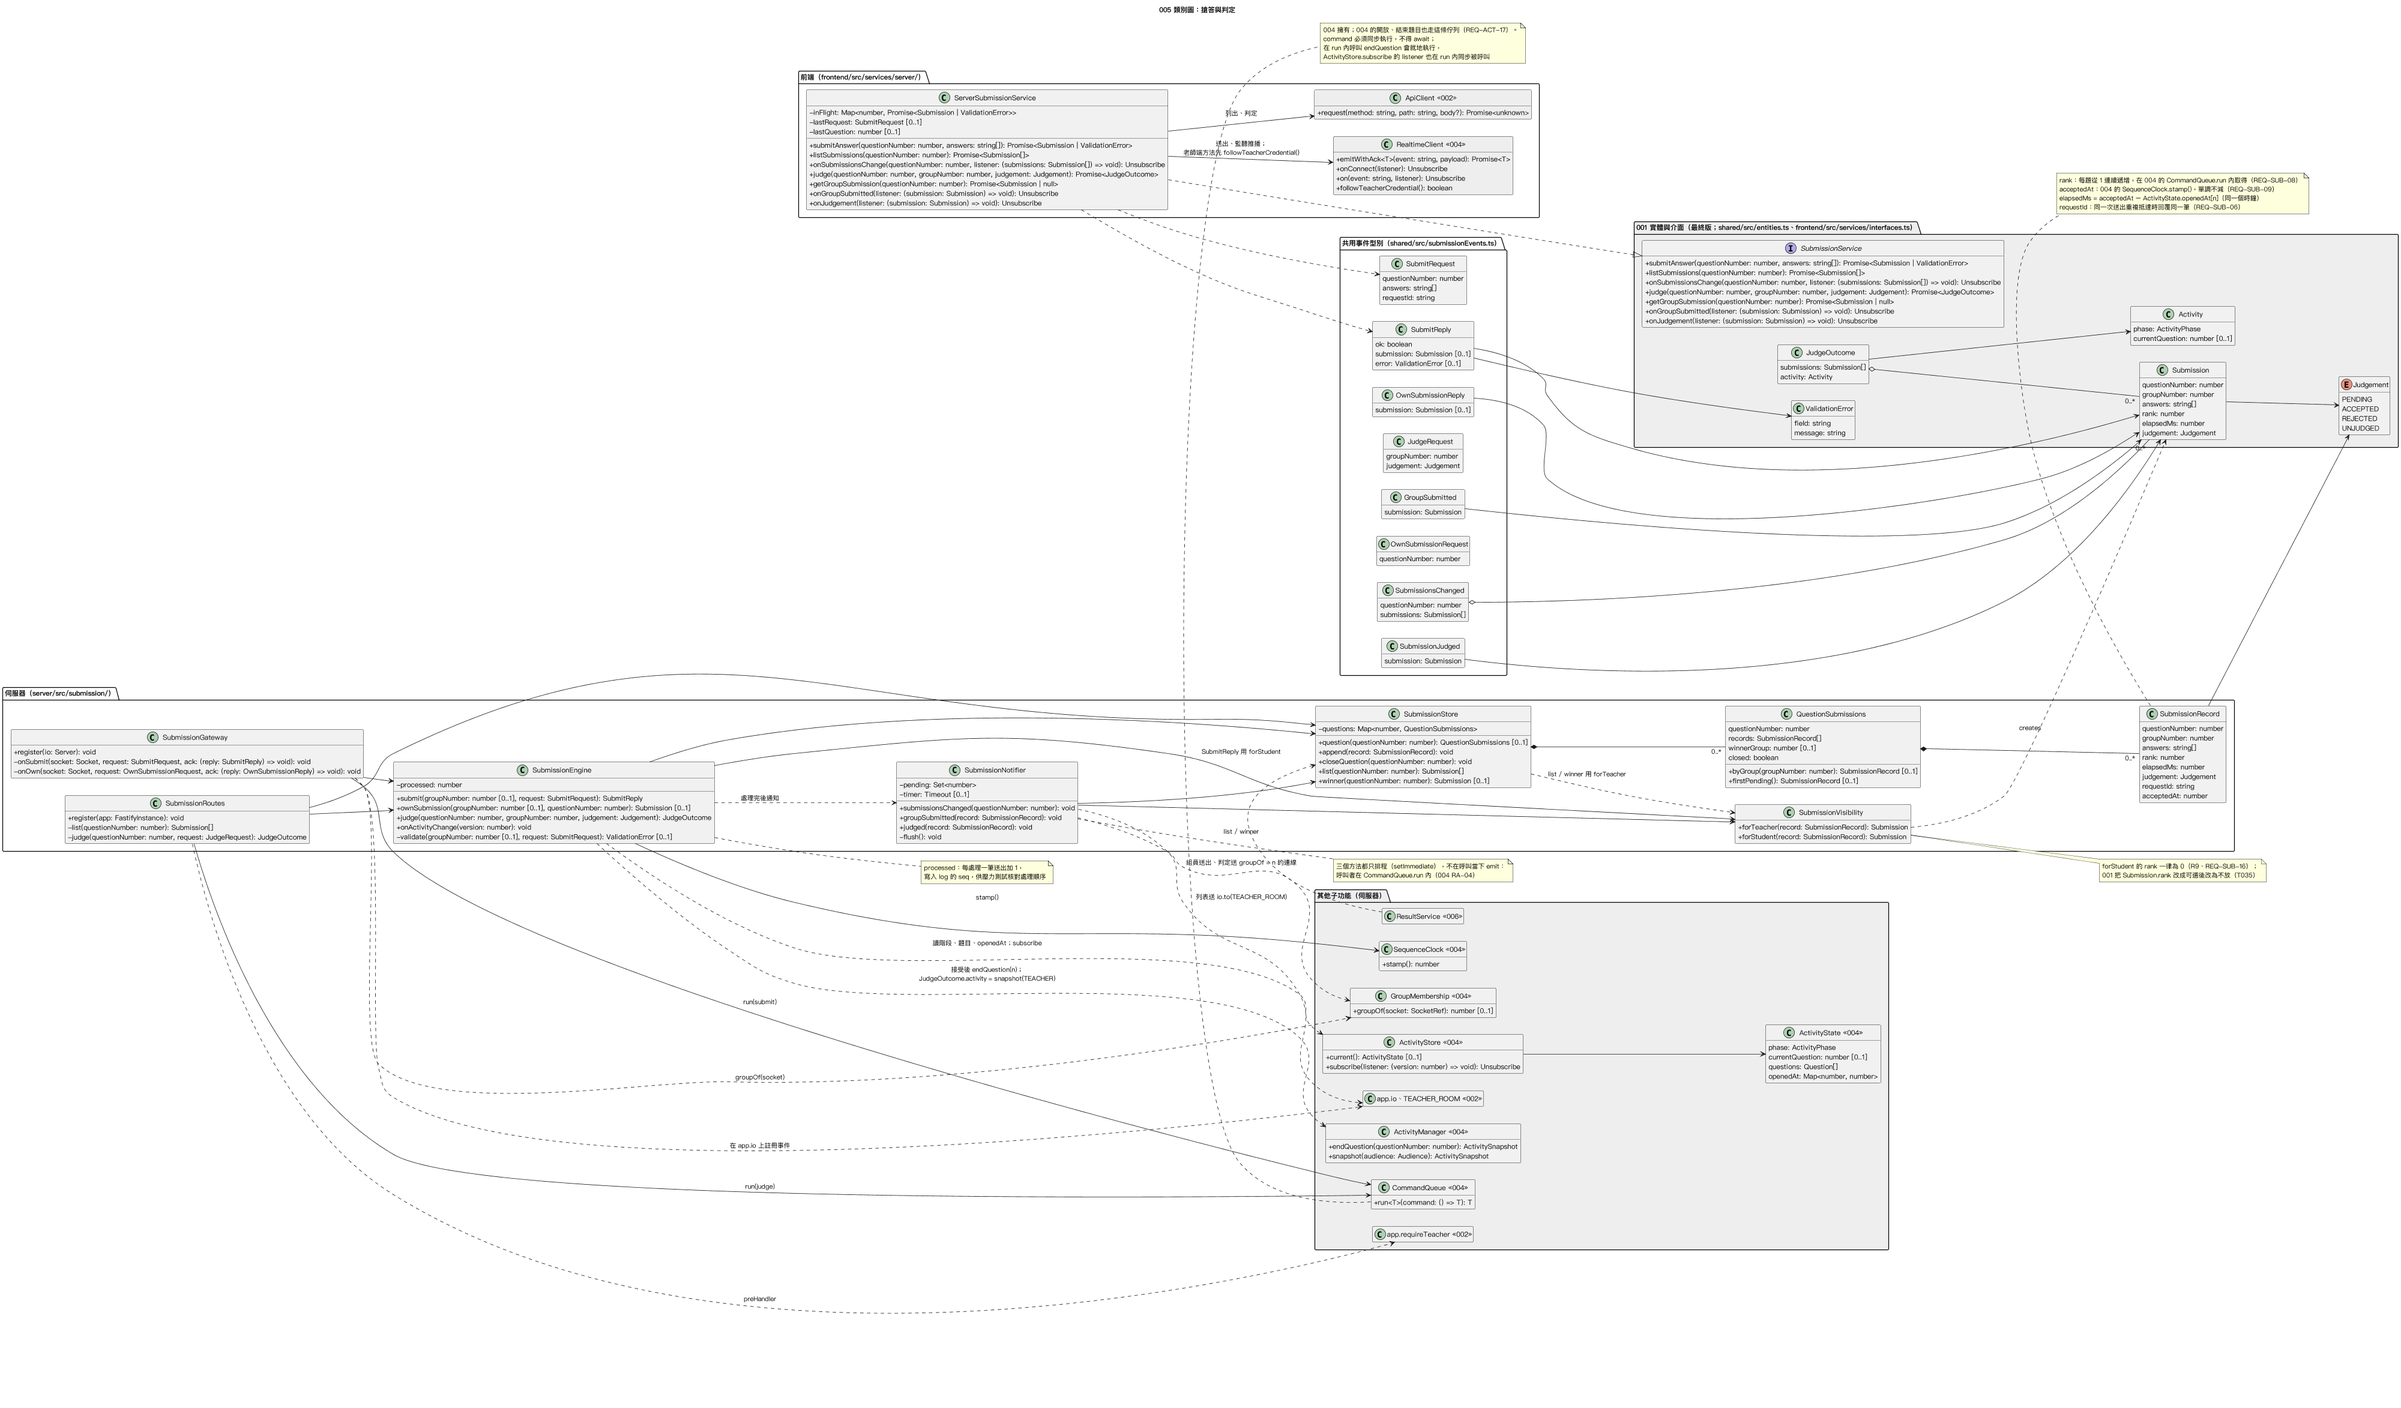
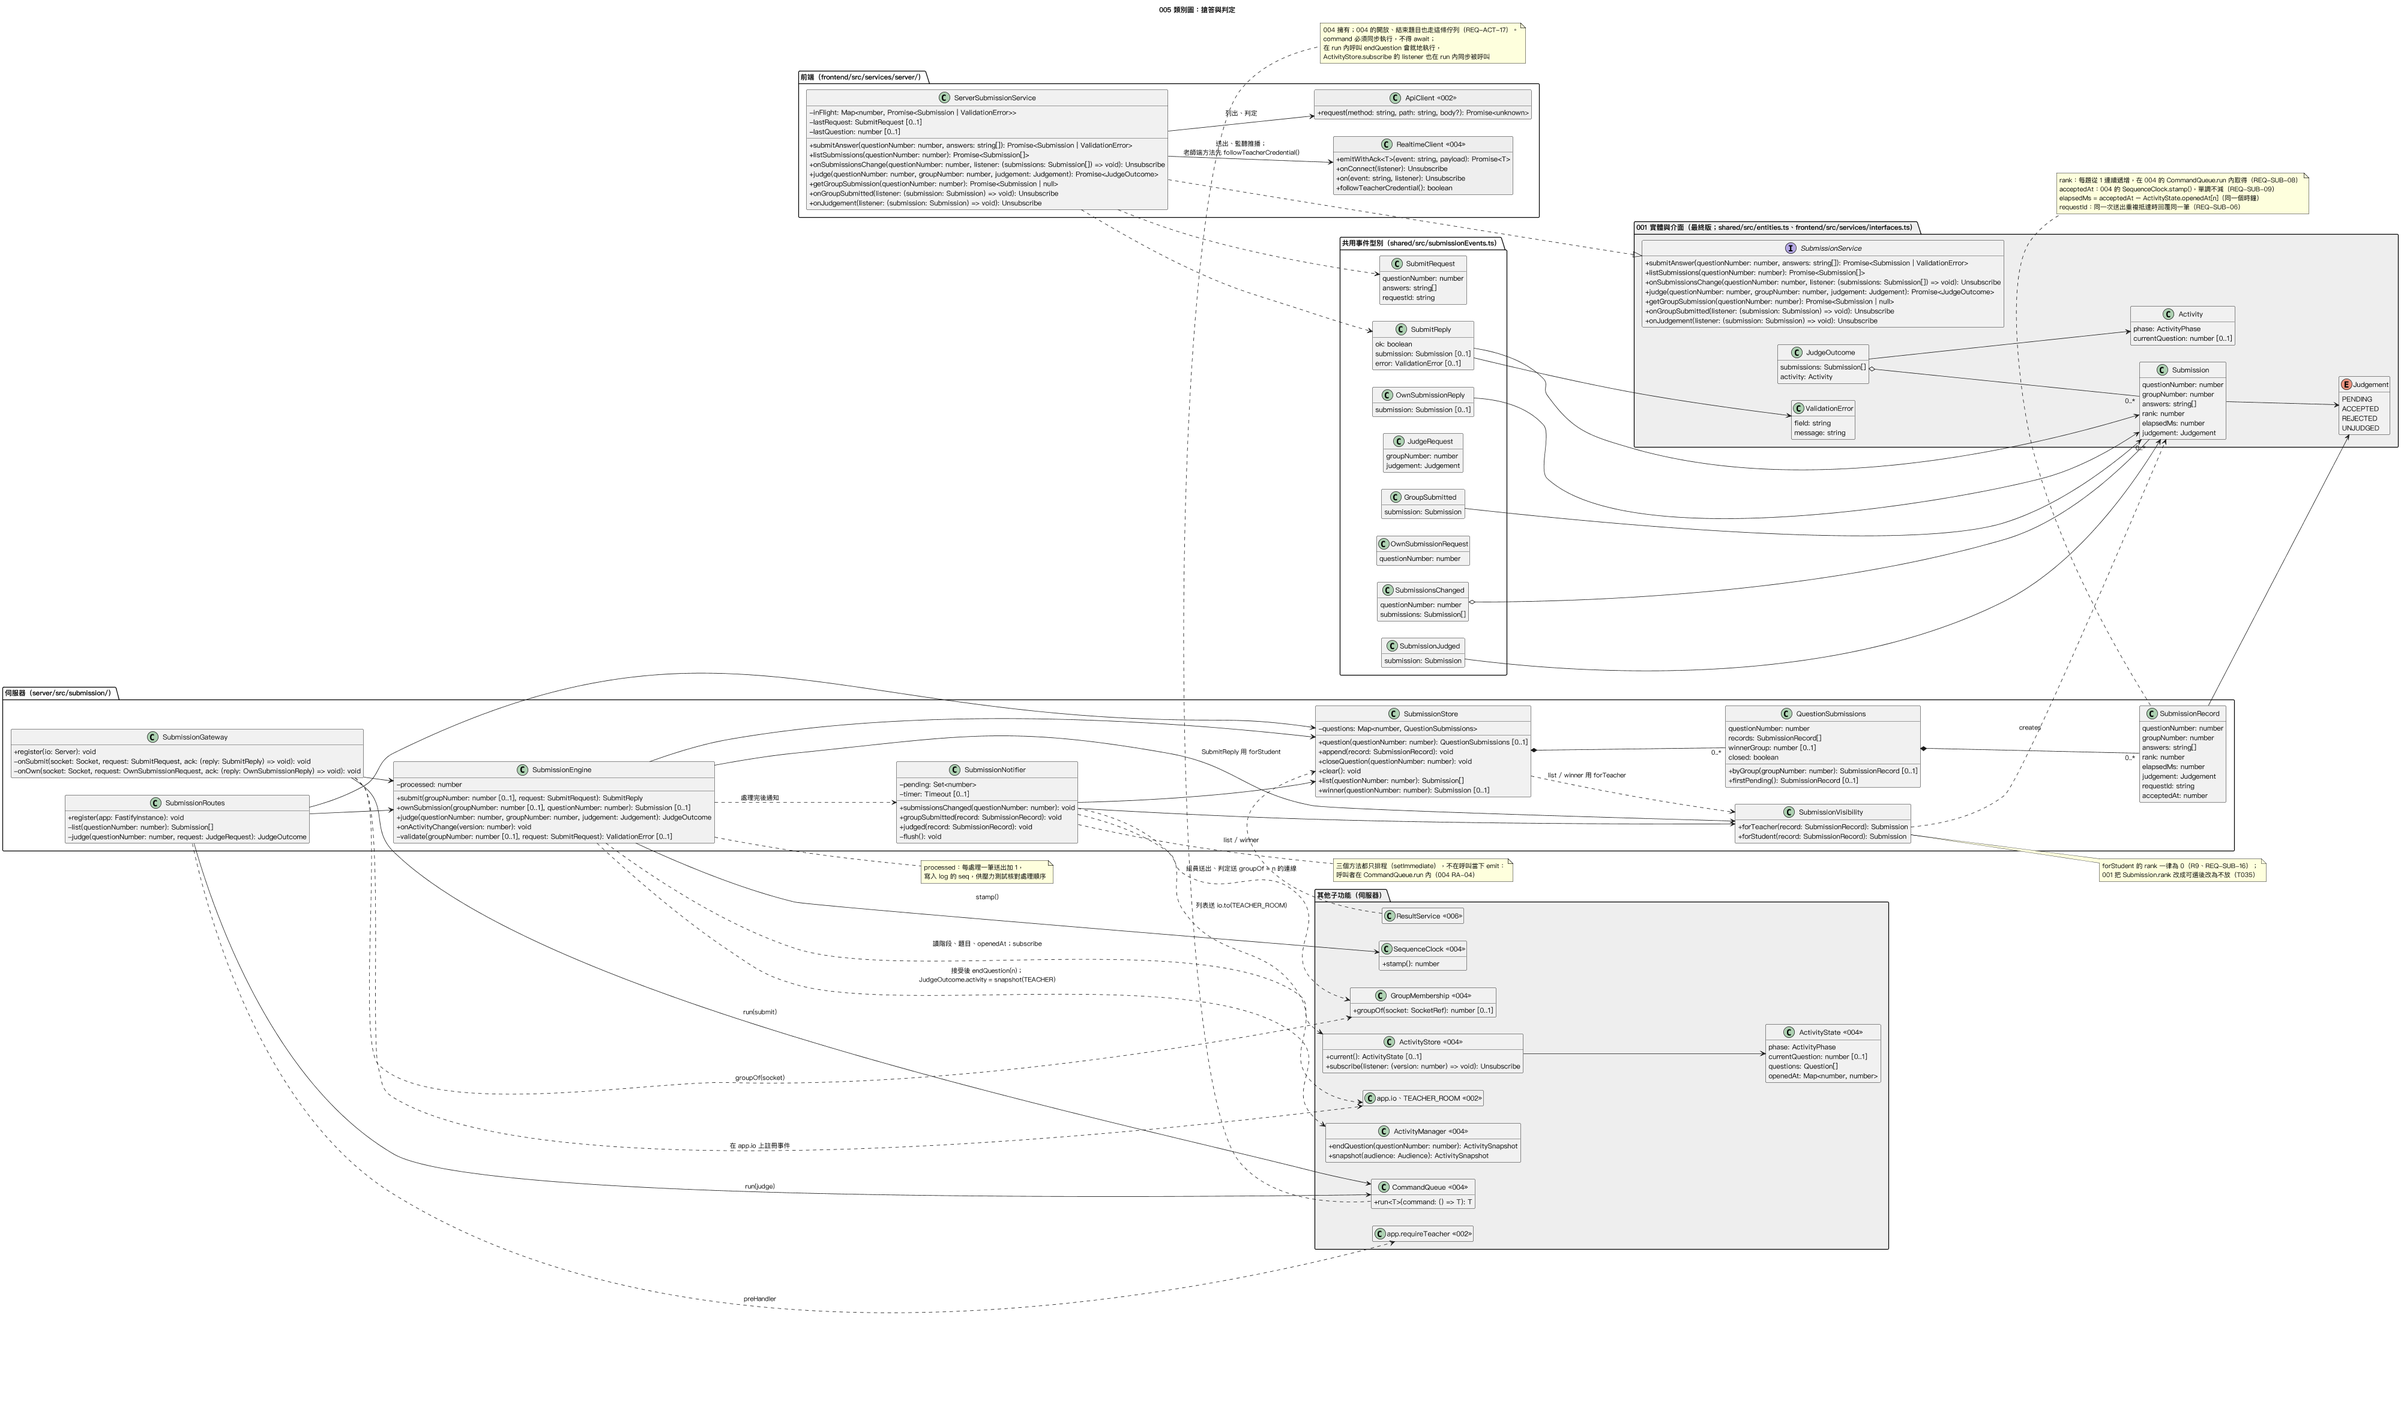
spec(005): clear submissions when the activity disappears
Each E2E test resets the shared test server, but submissions outlived
the reset, so a group could not submit question 1 again. Clearing them
with the activity matches a server restart and changes nothing in real
use, where an activity is only cancelled before any submission.

Refs: T047, T048, T012, T013

diff --git a/specs/005-buzz-submission/tasks.md b/specs/005-buzz-submission/tasks.md
@@ -61,15 +61,17 @@ description: "Task list for 005 搶答與判定"
 
 ### Tests for User Story 1 ⚠
 
-- [X] T012 [P] [US1] `server/tests/unit/submission/SubmissionEngine.submit.test.ts`：接受時 `rank` 從 1 遞增、`judgement = PENDING`、回覆的 `rank` 為 0（AC-01）；某格空白或只有空白字元 → `field: "answers.<i>"`「每一格都填才能送出」（AC-02）；題組兩格共用一筆一個 `rank`，格數不等於小題數 → `field: "answers"`「送出的資料格式不正確」（AC-03）；同組不同 `requestId` → `field: "answers"`「本組已送出此題」（AC-04）；同一 `requestId` → 回第一次的結果、不新增紀錄、不再通知 `groupSubmitted`（AC-05）；題目未開放、已結束、題號不是目前開放的題 → 「這一題目前不能作答」且不取 `rank`（AC-06）；超過 200 字 → `field: "answers.<i>"`「每一格最多 200 字」（AC-07）；`REJECTED` 的組再送 → 「本組已送出此題」（AC-08）；`group` 為空 → 「請先加入組別」；接受時通知 `SubmissionNotifier.groupSubmitted` 一次（AC-27）；`ownSubmission(group, q)` 回傳本組紀錄（`rank` 0、目前的 `judgement`）或空（AC-28）；保存去除前後空白後的答案；`elapsedMs = SequenceClock.stamp() − ActivityState.openedAt.get(n)`；以假的 `performance.now` 讓時間往回走時，後處理的送出 `elapsedMs` 不小於先處理的（AC-23、REQ-SUB-NFR-03）；`submit` 在 004 真正的 `CommandQueue.run` 內執行、`processed` 每筆加 1
-- [X] T013 [P] [US1] `server/tests/integration/submission/gateway.submit.test.ts`：真的 Socket.IO 連線送 `submission:submit`，組別取自 `GroupMembership.groupOf(socket)`，payload 夾帶 `groupNumber` 被忽略（AC-19）；ack 為 `SubmitReply`；同組兩條連線同時送出只有一筆 `ok`，另一條收到「本組已送出此題」，兩條都收到 `submission:groupSubmitted`（AC-04）；同組另一條連線 1 秒內收到 `submission:groupSubmitted`，別組連線收不到（AC-27）；`submission:own` 回傳本組的送出（待判定、被拒絕後為 `REJECTED`），沒有送出或沒有加入組別時為 `null`，payload 指定別組也只回本組（AC-28、AC-19）；004 結束題目之後才處理的送出被拒絕，結束之前處理的送出有效並變成 `UNJUDGED`，重複 100 次（AC-25）。（2026-11-27 使用者決定：「被拒絕後為 `REJECTED`」要用 Phase 4 的判定路由，在 T022 完成前暫時 skip，T022 時打開）
+- [X] T012 [P] [US1] `server/tests/unit/submission/SubmissionEngine.submit.test.ts`：接受時 `rank` 從 1 遞增、`judgement = PENDING`、回覆的 `rank` 為 0（AC-01）；某格空白或只有空白字元 → `field: "answers.<i>"`「每一格都填才能送出」（AC-02）；題組兩格共用一筆一個 `rank`，格數不等於小題數 → `field: "answers"`「送出的資料格式不正確」（AC-03）；同組不同 `requestId` → `field: "answers"`「本組已送出此題」（AC-04）；同一 `requestId` → 回第一次的結果、不新增紀錄、不再通知 `groupSubmitted`（AC-05）；題目未開放、已結束、題號不是目前開放的題 → 「這一題目前不能作答」且不取 `rank`（AC-06）；超過 200 字 → `field: "answers.<i>"`「每一格最多 200 字」（AC-07）；`REJECTED` 的組再送 → 「本組已送出此題」（AC-08）；`group` 為空 → 「請先加入組別」；接受時通知 `SubmissionNotifier.groupSubmitted` 一次（AC-27）；`ownSubmission(group, q)` 回傳本組紀錄（`rank` 0、目前的 `judgement`）或空（AC-28）；保存去除前後空白後的答案；`elapsedMs = SequenceClock.stamp() − ActivityState.openedAt.get(n)`；以假的 `performance.now` 讓時間往回走時，後處理的送出 `elapsedMs` 不小於先處理的（AC-23、REQ-SUB-NFR-03）；`submit` 在 004 真正的 `CommandQueue.run` 內執行、`processed` 每筆加 1。（2026-11-27 使用者決定：補上陣列取值的型別寫法讓 `npm run typecheck` 通過，斷言不變）
+- [X] T013 [P] [US1] `server/tests/integration/submission/gateway.submit.test.ts`：真的 Socket.IO 連線送 `submission:submit`，組別取自 `GroupMembership.groupOf(socket)`，payload 夾帶 `groupNumber` 被忽略（AC-19）；ack 為 `SubmitReply`；同組兩條連線同時送出只有一筆 `ok`，另一條收到「本組已送出此題」，兩條都收到 `submission:groupSubmitted`（AC-04）；同組另一條連線 1 秒內收到 `submission:groupSubmitted`，別組連線收不到（AC-27）；`submission:own` 回傳本組的送出（待判定、被拒絕後為 `REJECTED`），沒有送出或沒有加入組別時為 `null`，payload 指定別組也只回本組（AC-28、AC-19）；004 結束題目之後才處理的送出被拒絕，結束之前處理的送出有效並變成 `UNJUDGED`，重複 100 次（AC-25）。（2026-11-27 使用者決定：「被拒絕後為 `REJECTED`」要用 Phase 4 的判定路由，在 T022 完成前暫時 skip，T022 時打開）。（2026-11-27 使用者決定：AC-25 的 100 輪每輪啟動新的測試伺服器，因為 004 在第 1 題開放後不能取消活動）
 - [X] T037 [P] [US1] `server/tests/integration/submission/routes.list.test.ts`：`GET /api/questions/:n/submissions` 依 `rank` 回傳老師視角列表，題組一筆一列、兩個小題的答案（AC-03），`n` 不是正整數回 400；沒有或錯誤的老師憑證由 `app.requireTeacher` 拒絕（AC-16）；學生送出後老師連線 1 秒內收到 `submissions:changed`（AC-09）；學生連線收不到 `submissions:changed`
 - [X] T038 [P] [US1] `frontend/tests/unit/ServerSubmissionService.teacher.test.ts`（既有的 `frontend/tests/helpers/fakeRealtimeClient.ts` 與假的 `ApiClient`）：`listSubmissions` 先呼叫 `followTeacherCredential()` 再呼叫正確的路徑並回傳列表；`ApiClient` reject 時原樣 reject；`onSubmissionsChange(q)` 先呼叫 `followTeacherCredential()`，只轉交題號 q 的列表，`onConnect` 觸發時重新 `listSubmissions(q)` 並通知；取消訂閱後不再通知（research RD-08）；`judge` 在 Phase 4 之前不送出任何請求、不呼叫 `ApiClient`，以 `UnexpectedError`「判定功能尚未完成（005 Phase 4）」reject（T023 實作 `judge` 時刪除這個案例）
+- [ ] T047 [P] [US1] `server/tests/unit/submission/SubmissionEngine.activity.test.ts`、`SubmissionStore.test.ts`：活動消失（`commit(null)`）後 `SubmissionStore` 沒有任何送出，之後新活動同一組可以再送第 1 題（spec Edge Cases「活動消失」，2026-11-27）
 - [X] T014 [P] [US1] `frontend/tests/unit/ServerSubmissionService.student.test.ts`（既有的 `frontend/tests/helpers/fakeRealtimeClient.ts`）：`submitAnswer` 的 `ok` 回 `Submission`、否則回 `ValidationError`；同一題進行中再呼叫回傳同一個 Promise、只 emit 一次（AC-05）；`emitWithAck` 逾時 reject 時原樣 reject；逾時後以相同題號與答案再送沿用同一個 `requestId`；`getGroupSubmission(q)` 送 `submission:own` 並回傳 `submission` 或 `null`；`onGroupSubmitted`、`onJudgement` 轉交對應事件；`onConnect` 觸發時以最近的題號重新 `getGroupSubmission`，有送出時通知 `onGroupSubmitted` 的訂閱、`REJECTED` 時通知 `onJudgement` 的訂閱；取消訂閱後不再通知
 
 ### Implementation for User Story 1
 
 - [ ] T015 [US1] 在 `server/src/submission/SubmissionEngine.ts` 實作 `submit`、`validate`、`ownSubmission`：檢查順序、`field` 與訊息依 data-model 第 4 節（「每一格都填才能送出」「每一格最多 200 字」「本組已送出此題」「這一題目前不能作答」「請先加入組別」「送出的資料格式不正確」）；小題數取自 `ActivityStore.current()` 的題目；`rank` = 本題紀錄數 + 1；`acceptedAt = sequenceClock.stamp()`；`processed` 加 1；回覆以 `forStudent` 產生；新紀錄建立後通知 `groupSubmitted` 與 `submissionsChanged`，依 T011、T012
+- [ ] T048 [US1] 在 `server/src/submission/SubmissionStore.ts` 加入 `clear()`，`SubmissionEngine.onActivityChange` 在 `ActivityStore.current()` 為空時呼叫；E2E 每個測試的 `/test/reset` 因此不留下前一個測試的送出，依 T047
 - [ ] T016 [US1] 實作 `server/src/submission/SubmissionGateway.ts`：`register(app.io)` 監聽 `SUBMIT`、`OWN`；`onSubmit` 以 `groupOf(socket)` 取得組別，只讀 `questionNumber`、`answers`、`requestId`，`commandQueue.run(() => engine.submit(group, request))` 後以 ack 回覆；`onOwn` 以 `groupOf(socket)` 與 `questionNumber` 呼叫 `engine.ownSubmission`；在 `submissionRoutes` 中註冊，依 T013、T015
 - [ ] T017 [US1] 實作 `frontend/src/services/server/ServerSubmissionService.ts` 的學生端方法：`submitAnswer`（`inFlight`、`lastRequest`、`crypto.randomUUID()`、`RealtimeClient.emitWithAck`，research RD-04）、`getGroupSubmission`（`emitWithAck(OWN, …)`）、`onGroupSubmitted`（`RealtimeClient.on(GROUP_SUBMITTED, …)`）、`onJudgement`（`RealtimeClient.on(JUDGED, …)`），並以 `lastQuestion` 在 `onConnect` 時補發（research RD-08），依 T001、T014
 - [ ] T039 [US1] 實作 `server/src/submission/SubmissionRoutes.ts` 的 `GET /api/questions/:n/submissions`（`{ preHandler: app.requireTeacher }`，400 `INVALID_QUESTION_NUMBER`，回傳 `SubmissionStore.list(n)`）；在 `submissionRoutes` 中註冊；把這個路由加進 002 T043 的老師路由清單測試（plan 交界假設 A-5），依 T037

diff --git a/specs/005-buzz-submission/data-model.md b/specs/005-buzz-submission/data-model.md
@@ -80,6 +80,7 @@
 | `question(q)` | 取得第 q 題（沒有則為空） |
 | `append(record)` | 加入一筆；第 q 題還沒有 `QuestionSubmissions` 時先建立 |
 | `closeQuestion(q)` | `closed = true`；其餘 `PENDING` 改為 `UNJUDGED`（REQ-SUB-14） |
+| `clear()` | 清空所有題的送出；活動消失時由 `SubmissionEngine.onActivityChange` 呼叫 |
 | `list(q)` | 老師視角的 `Submission[]`，依 `rank`；沒有該題時為空陣列（006 使用） |
 | `winner(q)` | 被接受的 `Submission`（老師視角）或空（006 使用） |
 
@@ -91,7 +92,7 @@
 | `submit(group, request): SubmitReply` | 在 004 的 `CommandQueue.run` 內執行。依序檢查：`group` 存在（否則 `answers`「請先加入組別」）→ 請求格式（`answers`「送出的資料格式不正確」）→ `request.questionNumber` 是 `ActivityStore` 目前開放的題（`answers`「這一題目前不能作答」）→ 本組已有紀錄（`requestId` 相同回第一次的結果；否則 `answers`「本組已送出此題」）→ 格數等於小題數（`answers`「送出的資料格式不正確」）→ 每格非空白（`answers.<i>`「每一格都填才能送出」）→ 每格 ≤ 200 字（`answers.<i>`「每一格最多 200 字」）→ 建立紀錄。建立後通知 `SubmissionNotifier.groupSubmitted`、`submissionsChanged` |
 | `ownSubmission(group, q): Submission [0..1]` | 本組第 q 題的紀錄，以 `forStudent` 產生；`group` 為空或沒有紀錄時為空（REQ-SUB-21） |
 | `judge(q, group, judgement): JudgeOutcome` | 在 004 的 `CommandQueue.run` 內執行；`ACCEPTED` 時就地呼叫 004 `ActivityManager.endQuestion(n)`；規則見 research RD-07；回傳 `{ submissions: SubmissionStore.list(q), activity: ActivityManager.snapshot(Audience.TEACHER).activity }` |
-| `onActivityChange(version)` | 以 004 `ActivityStore.subscribe` 註冊的 listener（在 `commit` 當下、仍在 `CommandQueue.run` 內被呼叫，參數是新的版本號）：以 `ActivityStore.current()` 讀取狀態；先前開放的第 n 題不再是 `OPEN(n)`（`QUESTION_ENDED`、`FINISHED`、活動消失）→ `closeQuestion(n)` 並通知老師列表 |
+| `onActivityChange(version)` | 以 004 `ActivityStore.subscribe` 註冊的 listener（在 `commit` 當下、仍在 `CommandQueue.run` 內被呼叫，參數是新的版本號）：以 `ActivityStore.current()` 讀取狀態；先前開放的第 n 題不再是 `OPEN(n)`（`QUESTION_ENDED`、`FINISHED`、活動消失）→ `closeQuestion(n)` 並通知老師列表；活動消失（`current()` 為空）時再 `SubmissionStore.clear()` |
 | `validate(group, request)` | 上述 `submit` 的檢查，回傳第一個錯誤或空 |
 
 ### 其他

diff --git a/specs/005-buzz-submission/spec.md b/specs/005-buzz-submission/spec.md
@@ -184,6 +184,7 @@
 - 學生分頁在作答或等待判定時斷線，錯過組員送出或「不接受」的通知：重新連上後服務以 `getGroupSubmission` 重新取得本組送出，補發對應的通知；被接受時本題結束，由 004 的階段同步帶到本題結果。
 - 學生在搶答中加入組別，同組已送出：進入等待判定頁（AC-28）。
 - 伺服器重新啟動：所有送出與判定一併消失（活動狀態只存在伺服器記憶體）。
+- 活動消失（004 取消活動，或測試伺服器重設）：所有送出與判定一併清空，與伺服器重新啟動相同；之後建立的新活動從沒有任何送出開始（2026-11-27）。
 
 ## Requirements *(mandatory)*
 
